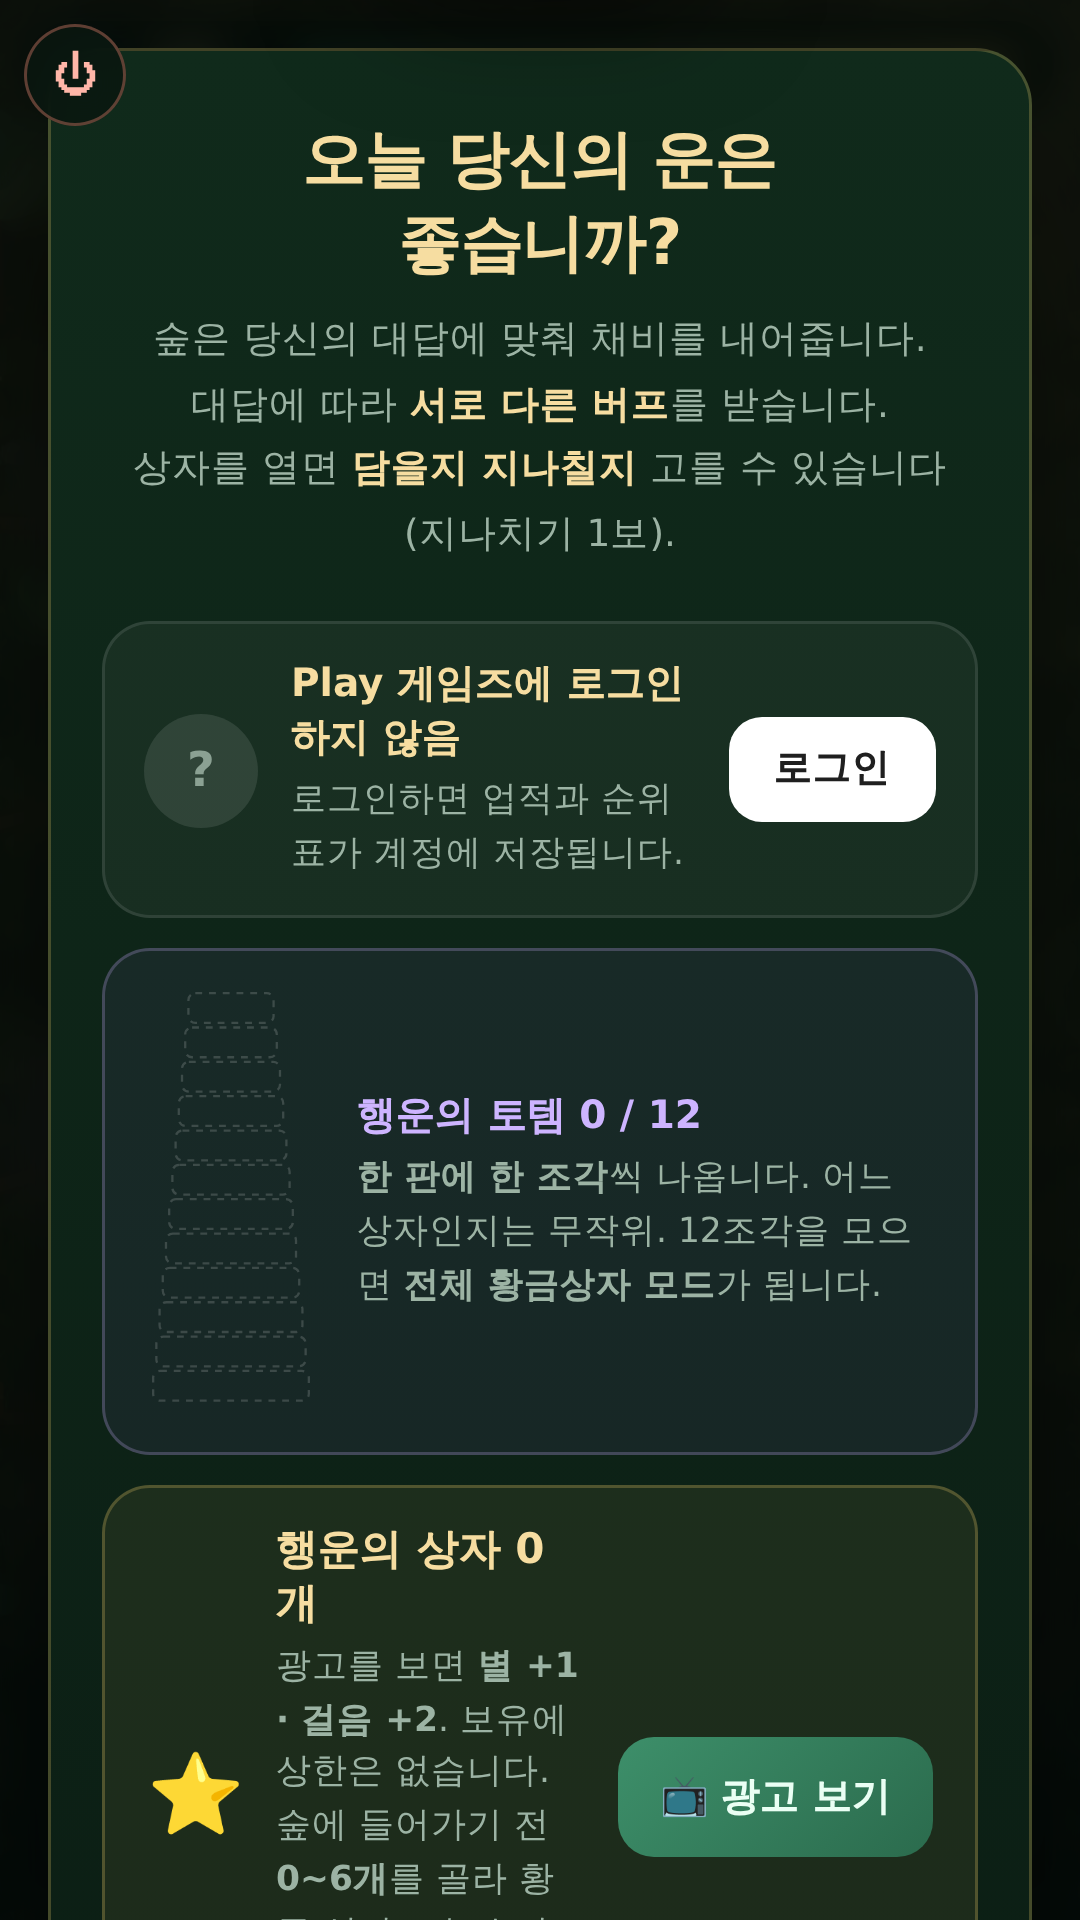
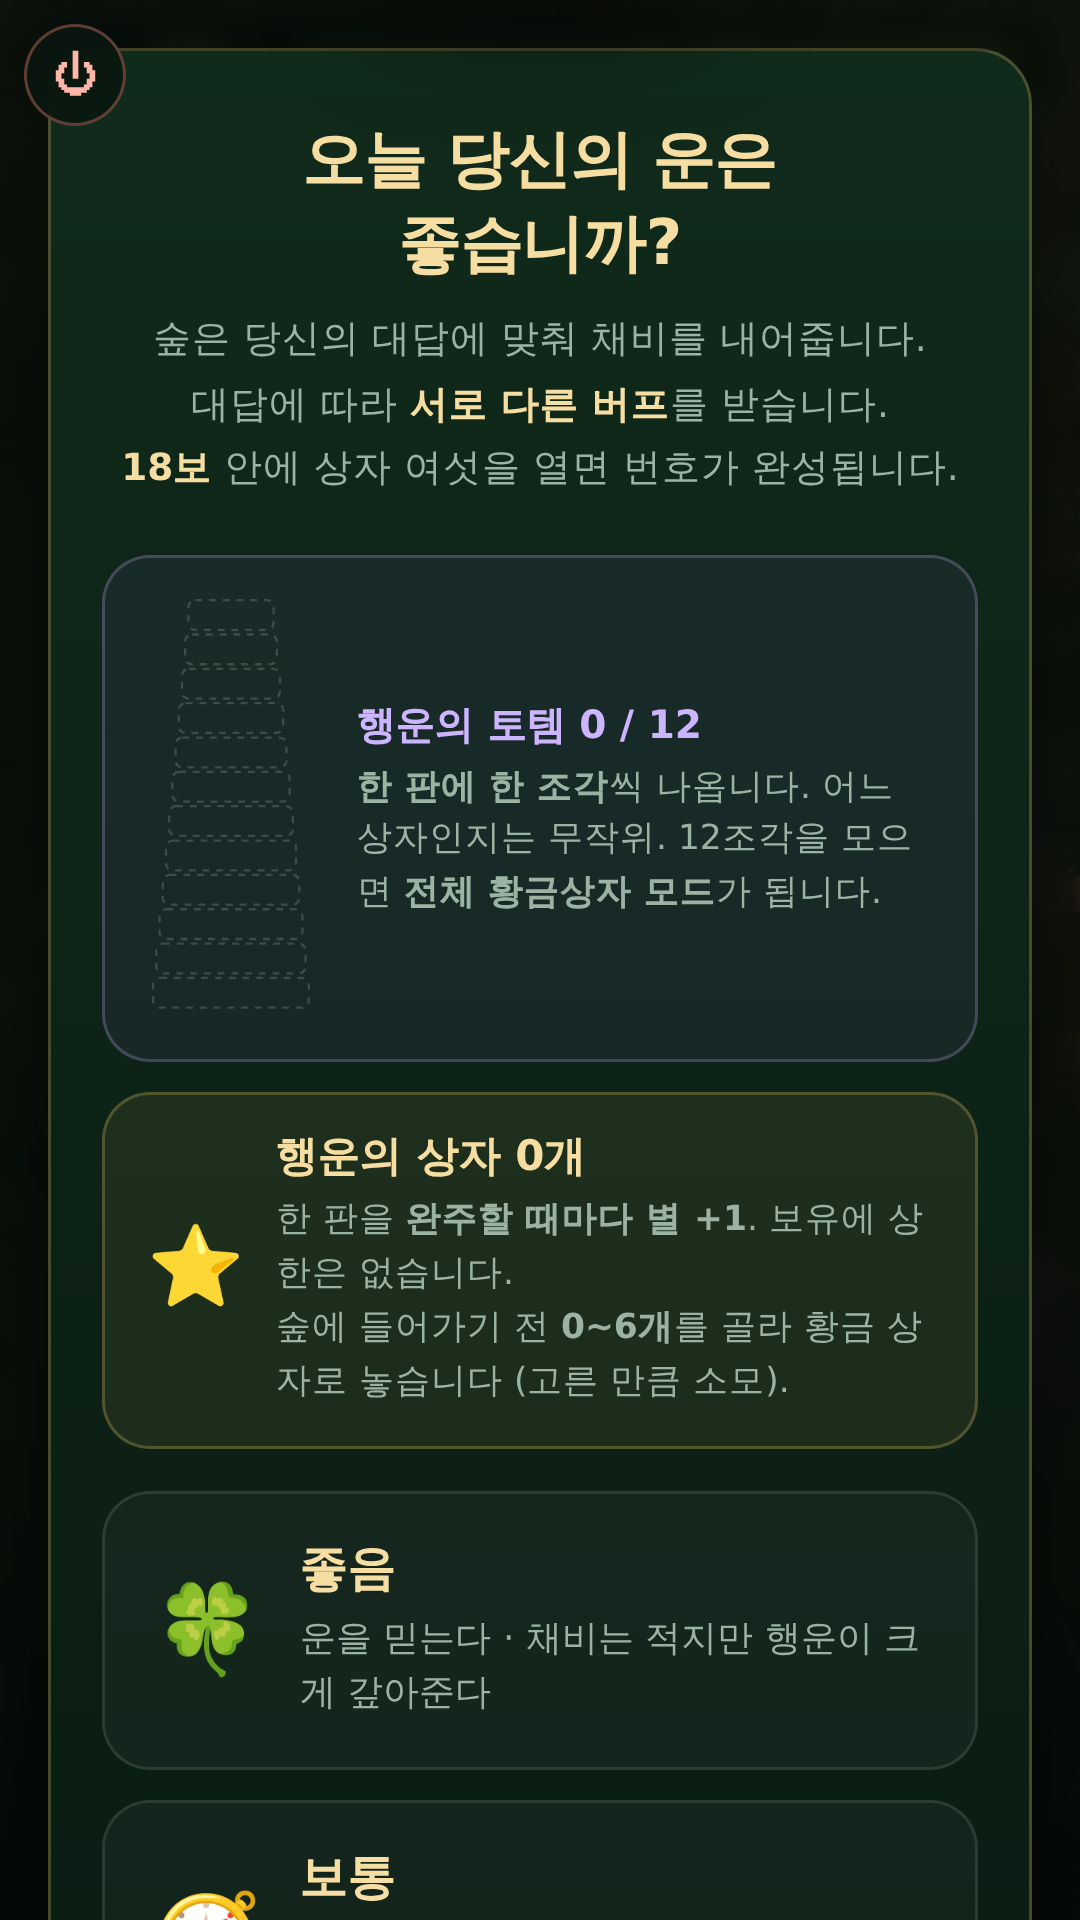
목업 광고를 스위치로 끄고 '숲의 선물'로 대체했다
스토어 심사에 목업 배너와 목업 리워드 광고를 그대로 내보낼 수 없어,
코드를 지우는 대신 ADS_ENABLED 스위치 하나로 껐다. AdMob 을 붙일 때
true 로 되돌리면 원래 흐름이 그대로 살아난다.

- 하단 배너와 시작·결과 화면의 광고 버튼을 감춘다.
- 별은 광고 대신 한 판을 완주할 때마다 +1 (바람으로 채운 판은 제외).
- 걸음이 막히면 '🌿 숲의 인심'으로 걸음 +2, 한 판에 3번까지.
- Play 게임즈 로그인 행은 네이티브 브릿지가 있을 때만 노출한다.
  웹 빌드에서는 목업이라 로그인한 척하는 화면이 나가면 안 된다.
- 시작 화면에 남아 있던 '담을지 지나칠지' 안내를 지금 규칙으로 고쳤다.
- 스토어 스크린샷 1·2번을 새 화면으로 다시 뽑았다.

Claude-Session: https://claude.ai/code/session_01KgrcarjBxR7sakJuBZj7Bt

diff --git a/README.md b/README.md
@@ -172,6 +172,30 @@
 > (`shuffled45()`로 번호를, 별도 셔플로 등급을 배정 — 4만 회 시뮬레이션에서
 > 번호–등급 카이제곱 80.2, 자유도 88로 독립성 확인)
 
+## 📺 광고 스위치 (`ADS_ENABLED`)
+
+첫 출시본에는 **실제 광고 SDK가 들어 있지 않습니다.** 목업 배너와 목업 리워드 광고를
+그대로 내보내면 스토어 심사에서 미완성으로 읽히고, 앱 콘텐츠의 '광고' 신고와도 어긋납니다.
+그래서 코드를 지우는 대신 스위치 하나로 껐습니다.
+
+```js
+const ADS_ENABLED = false;   // AdMob 을 붙이면 true 로 되돌린다
+const GIFT_MAX    = 3;       // 광고가 없을 때 한 판에 숲이 베푸는 인심 횟수
+```
+
+`false` 일 때 달라지는 것:
+
+| | 광고 켜짐 | 광고 꺼짐 (현재) |
+|---|---|---|
+| 하단 배너 | 표시 | **숨김** |
+| 시작·결과 화면 광고 버튼 | 표시 | **숨김** |
+| 별 획득 | 광고 1회당 +1 (무제한) | **완주 1회당 +1** (바람으로 채운 판은 제외) |
+| 걸음이 막혔을 때 | 광고 보고 걸음 +2 | **🌿 숲의 인심** — 걸음 +2, **한 판에 3번까지** |
+| Play 게임즈 로그인 행 | 표시 | 네이티브 브릿지가 없으면 숨김 |
+
+광고를 붙일 때는 이 값을 `true` 로 되돌리고, 개인정보처리방침·데이터 안전 섹션·앱 콘텐츠의
+광고 문항을 함께 갱신해야 합니다.
+
 ## ⭐ 별 · 👣 보유 걸음 · 광고
 
 광고 1회를 끝까지 보면 **별 +1 · 걸음 +2**를 받습니다(도중에 닫으면 보상 없음).
